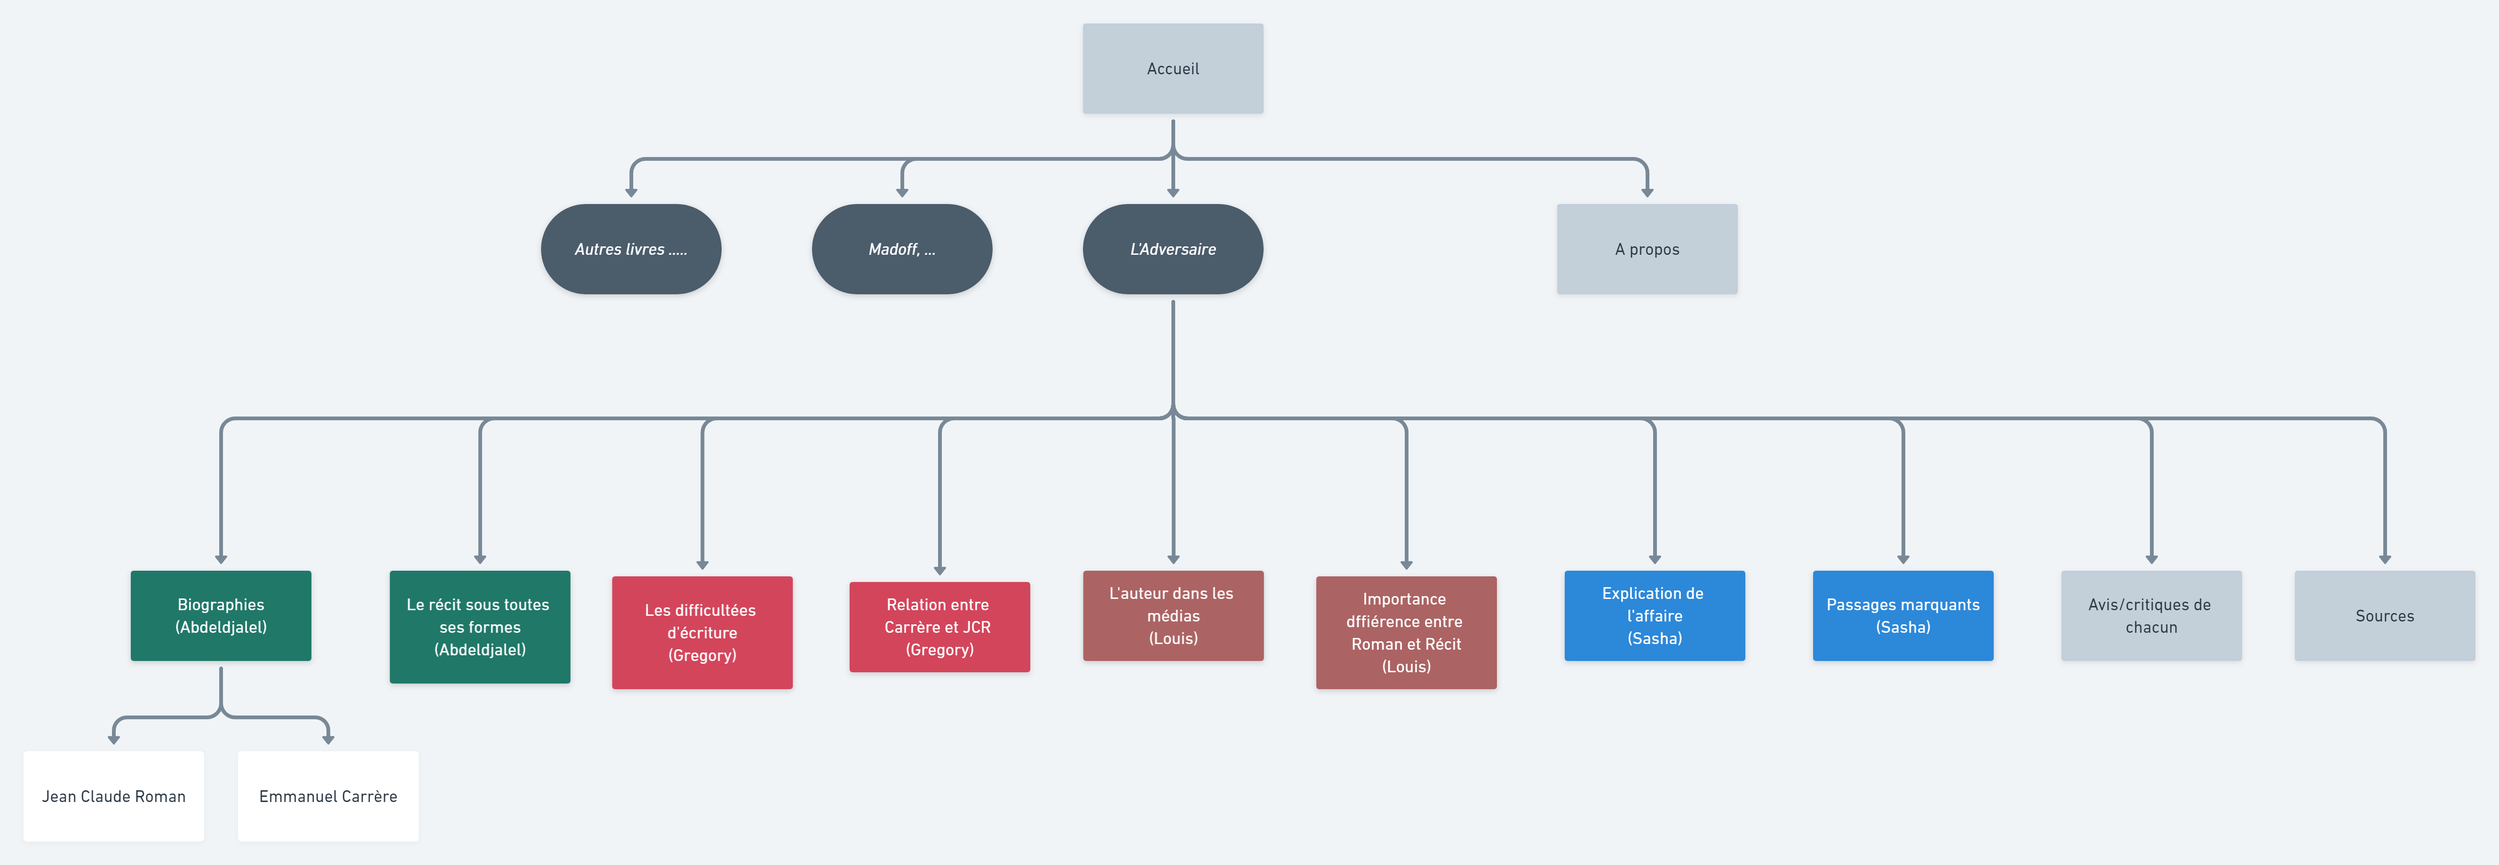
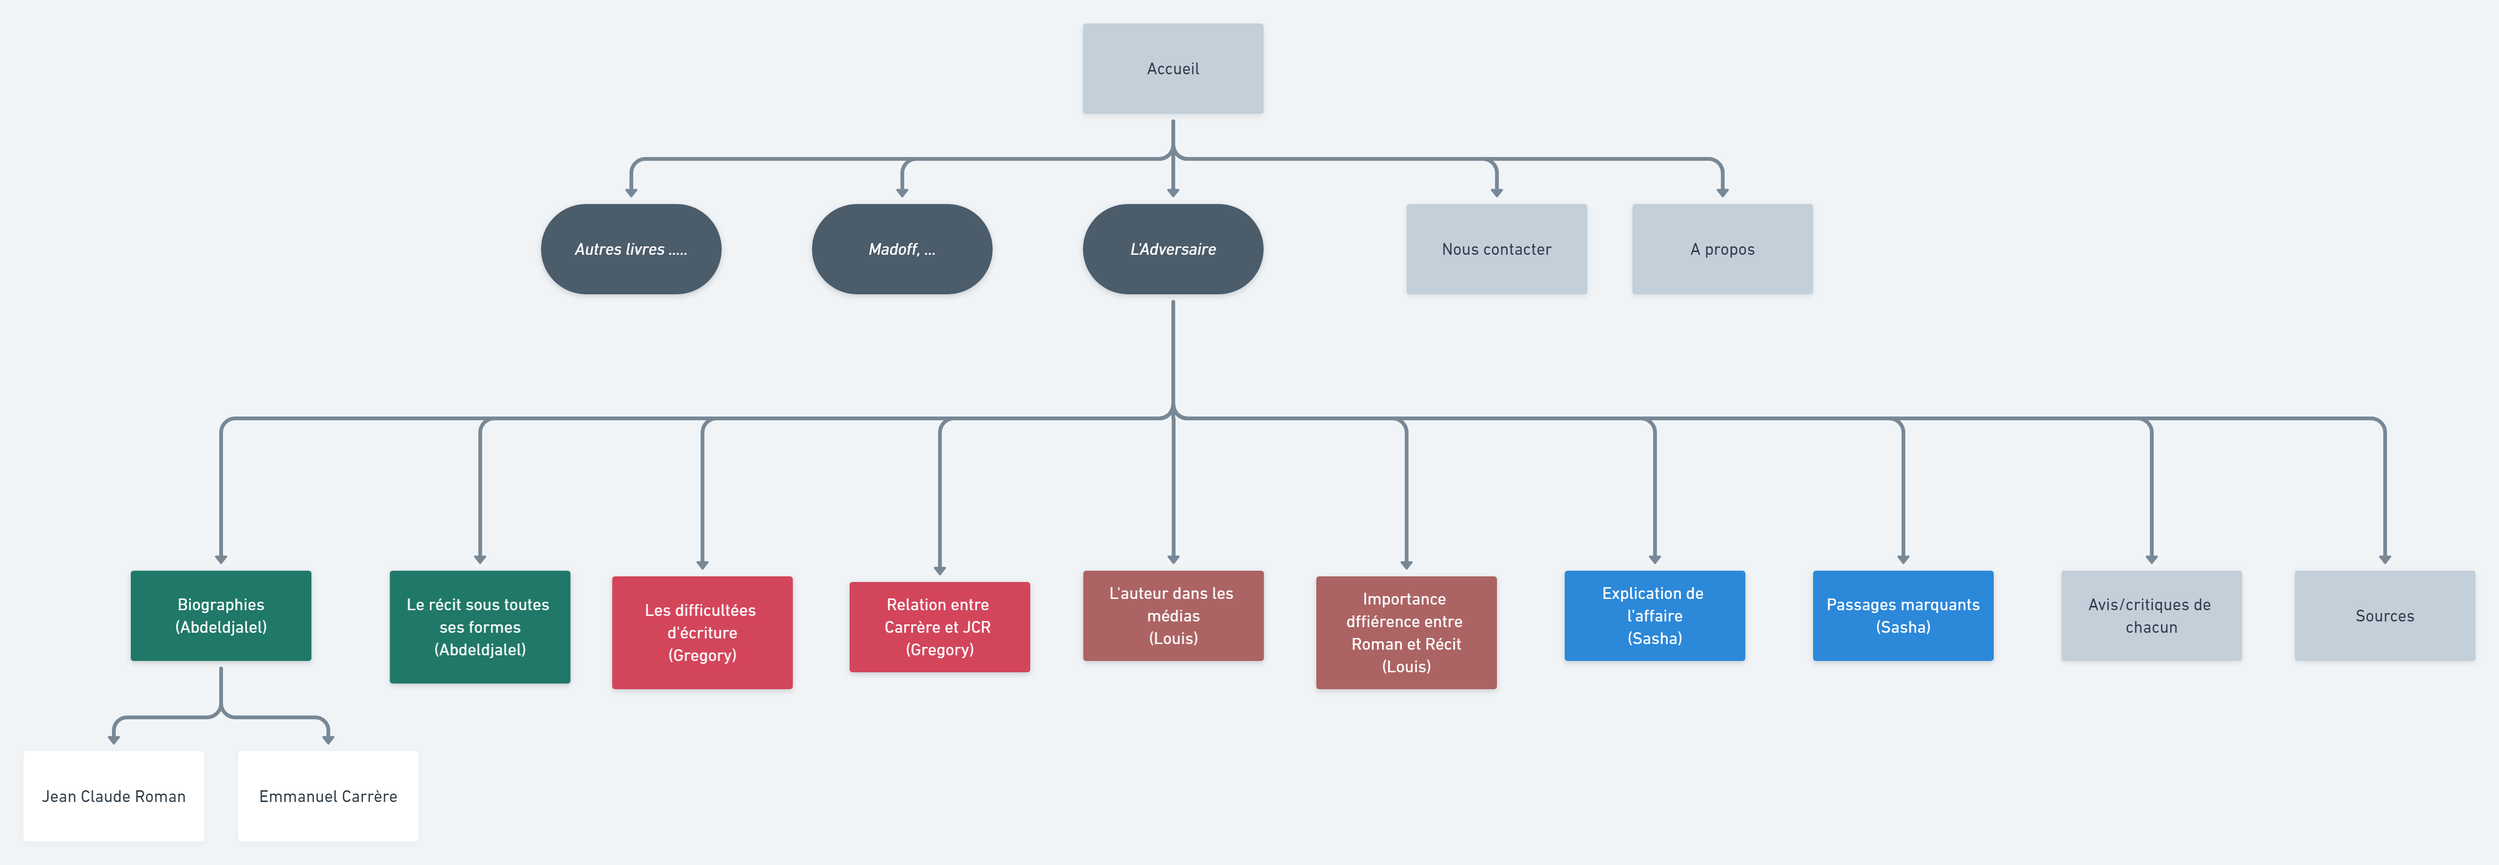
📝 Update : Add contact page

Changed region(s): [[0.5625, 0.2168, 0.75, 0.3408], [0.6562, 0.1549, 0.6875, 0.1859]]

diff --git a/adversaire/sources.html b/adversaire/sources.html
@@ -6,11 +6,11 @@
 -->
 <html>
 	<head>
-		<title>Sources - Unusual stories</title>
+		<title>Sources - Unusual Stories</title>
 		<meta charset="utf-8" />
 		<meta name="viewport" content="width=device-width, initial-scale=1, user-scalable=no" />
-		<link rel="stylesheet" href="assets/css/main.css" />
-		<noscript><link rel="stylesheet" href="assets/css/noscript.css" /></noscript>
+		<link rel="stylesheet" href="../assets/css/main.css" />
+		<noscript><link rel="stylesheet" href="../assets/css/noscript.css" /></noscript>
 	</head>
 	<body class="is-preload">
 
@@ -19,15 +19,17 @@
 
 				<!-- Header -->
 					<header id="header">
-						<a href="index.html" class="logo">Massively</a>
+						<a href="index.html" class="logo">L'adversaire, Emmanuel Carrère</a>
 					</header>
 
 				<!-- Nav -->
 					<nav id="nav">
 						<ul class="links">
-							<li><a href="index.html">Accueil</a></li>
-							<li><a href="about.html">A propos</a></li>
+							<li><a href="../index.html">Accueil</a></li>
+							<li><a href="index.html">L'Adversaire</a></li>
+							<li><a href="../about.html">A propos</a></li>
 							<li class="active"><a href="sources.html">Sources</a></li>
+							<li><a href="../contact.html">Nous contacter</a></li>
 						</ul>
 						<ul class="icons">
 							<li><a href="#" class="icon brands fa-twitter"><span class="label">Twitter</span></a></li>
@@ -48,9 +50,28 @@
 									<p>D'ou tirons nous nos informations ?</p>
 								</header>
 
-								<div class="image main"><img src="images/pic01.jpg" alt="" /></div>
 								<p>Donec eget ex magna. Interdum et malesuada fames ac ante ipsum primis in faucibus. Pellentesque venenatis dolor imperdiet dolor mattis sagittis. Praesent rutrum sem diam, vitae egestas enim auctor sit amet. Pellentesque leo mauris, consectetur id ipsum sit amet, fergiat. Pellentesque in mi eu massa lacinia malesuada et a elit. Donec urna ex, lacinia in purus ac, pretium pulvinar mauris. Nunc lorem mauris, fringilla in aliquam at, euismod in lectus. Pellentesque habitant morbi tristique senectus et netus et malesuada fames ac turpis egestas. Curabitur sapien risus, commodo eget turpis at, elementum convallis enim turpis, lorem ipsum dolor sit amet nullam.</p>
 								<p>Lorem ipsum dolor sit amet, consectetur adipiscing elit. Duis dapibus rutrum facilisis. Class aptent taciti sociosqu ad litora torquent per conubia nostra, per inceptos himenaeos. Etiam tristique libero eu nibh porttitor fermentum. Nullam venenatis erat id vehicula viverra. Nunc ultrices eros ut ultricies condimentum. Mauris risus lacus, blandit sit amet venenatis non, bibendum vitae dolor. Nunc lorem mauris, fringilla in aliquam at, euismod in lectus. Pellentesque habitant morbi tristique senectus et netus et malesuada fames ac turpis egestas. In non lorem sit amet elit placerat maximus. Pellentesque aliquam maximus risus. Donec eget ex magna. Interdum et malesuada fames ac ante ipsum primis in faucibus. Pellentesque venenatis dolor imperdiet dolor mattis sagittis. Praesent rutrum sem diam, vitae egestas enim auctor sit amet. Pellentesque leo mauris, consectetur id ipsum.</p>
+
+								<h2 style="text-align: center;">Articles de journaux</h2>
+
+								<h2 style="text-align:center;">Vidéos et reportages</h2>
+
+								<p>
+									<b>Faites entrer l'accusé - Jean-Claude Romand (1h24)</b>
+									<br>
+									<a href="https://www.youtube.com/watch?v=Ja2-i30fbAI">https://www.youtube.com/watch?v=Ja2-i30fbAI</a>
+								</p>
+
+								<h2 style="text-align: center;">Photos et illustrations</h2>
+								
+								<p>
+									<b>Image d'arrière-plan du site</b>
+									<br>
+									<a href="https://unsplash.com/photos/BI9SwyRrJxo">https://unsplash.com/photos/BI9SwyRrJxo</a>
+								</p>
+
+								
 							</section>
 
 					</div>
@@ -69,7 +90,7 @@
 						<section>
 							<h3>Une faute ? Une remarque à apporter ?</h3>
 							<p>Contactez-nous via notre formulaire, nous prenons en compte tous les avis, remarques et critiques !</p>
-							<a href="#" class="button primary small icon solid fa-paper-plane" title="Accéder au formulaire de messagerie">Nous contacter</a>
+							<a href="../contact.html" class="button primary small icon solid fa-paper-plane" title="Accéder au formulaire de messagerie">Nous contacter</a>
 						</section>
 					</footer>
 
@@ -81,13 +102,13 @@
 			</div>
 
 		<!-- Scripts -->
-			<script src="assets/js/jquery.min.js"></script>
-			<script src="assets/js/jquery.scrollex.min.js"></script>
-			<script src="assets/js/jquery.scrolly.min.js"></script>
-			<script src="assets/js/browser.min.js"></script>
-			<script src="assets/js/breakpoints.min.js"></script>
-			<script src="assets/js/util.js"></script>
-			<script src="assets/js/main.js"></script>
+			<script src="../assets/js/jquery.min.js"></script>
+			<script src="../assets/js/jquery.scrollex.min.js"></script>
+			<script src="../assets/js/jquery.scrolly.min.js"></script>
+			<script src="../assets/js/browser.min.js"></script>
+			<script src="../assets/js/breakpoints.min.js"></script>
+			<script src="../assets/js/util.js"></script>
+			<script src="../assets/js/main.js"></script>
 
 	</body>
 </html>

diff --git a/contact.html b/contact.html
@@ -6,7 +6,7 @@
 -->
 <html>
 	<head>
-		<title>A propos - Unusual Stories</title>
+		<title>Nous contacter - Unusual Stories</title>
 		<meta charset="utf-8" />
 		<meta name="viewport" content="width=device-width, initial-scale=1, user-scalable=no" />
 		<link rel="stylesheet" href="assets/css/main.css" />
@@ -26,8 +26,8 @@
 					<nav id="nav">
 						<ul class="links">
 							<li><a href="index.html">Accueil</a></li>
-							<li class="active"><a href="about.html">A propos</a></li>
-							<li><a href="contact.html">Nous contacter</a></li>
+							<li><a href="about.html">A propos</a></li>
+							<li class="active"><a href="contact.html">Nous contacter</a></li>
 						</ul>
 						<ul class="icons">
 							<li><a href="#" class="icon brands fa-twitter"><span class="label">Twitter</span></a></li>
@@ -43,37 +43,31 @@
 						<!-- Post -->
 							<section class="post">
 								<header class="major">
-									<span class="date">L'équipe</span>
-									<h1>A propos</h1>
-									<p>Qui sommes nous ? Que faisons-nous ? <br /> Nous répondons à vos interrogations !</p>
+									<h1>Nous contacter</h1>
+									<p>Une faute ? Une remarque à apporter ? Envoyez-nous un message !</p>
 								</header>
-								
-								<p>
-									Nous sommes un groupe d'élèves de première année de DUT Informatique à l'Université de Paris. Dans le cadre d'un projet nous devons réaliser un site Internet culturel sur un ouvrage de notre choix. Vous voyez donc actuellement le résultat de notre travail.
-								</p>
 
-								<p>
-									Nous sommes une équipe composée de 4 membres, Contrepois Sasha, Chihab Abdeldjalel, Tacquet Grégory et Malassigné Louis.
-								</p>
-
-								<p>
-									Tout d’abord, nous avons effectué un travail personnel qui se résumait à des recherches et de la lecture de l’oeuvre. Puis, nous avons  mis en commun nos travaux pour critiquer et améliorer le contenu de nos recherches et entammer la rédaction d’articles sur des sujets qui nous semblaient pertinent. Nous avons enfin fini par incorporer notre travail sur le site Internet.
-								</p>
-
-								<p>
-									Ce projet s’est basé sur la communication, l’entraide et le travail d’équipe.
-								</p>
-
-								<p style="text-align: center;">
-									La première publication du site est le 28/12/2020.
-									<br>
-									Hébergé grâce à GitHub Pages
-								</p>
-
-								<h3>Arborescence du site internet</h3>
-								<p>
-									<div class="image fit"><img src="images/arborescence.png"></div>
-								</p>
+								<div class="box">
+									<form method="post" action="#">
+										<div class="fields">
+											<div class="field">
+												<label for="name">Nom</label>
+												<input type="text" name="name" id="name" />
+											</div>
+											<div class="field">
+												<label for="email">Email</label>
+												<input type="email" name="email" id="email" />
+											</div>
+											<div class="field">
+												<label for="message">Message</label>
+												<textarea name="message" id="message" rows="3"></textarea>
+											</div>
+										</div>
+										<ul class="actions">
+											<li><input type="submit" value="Envoyer" /></li>
+										</ul>
+									</form>
+								</div>
 
 							</section>
 

diff --git a/adversaire/explication_affaire.html b/adversaire/explication_affaire.html
@@ -29,7 +29,8 @@
                             <li><a href="index.html">L'Adversaire</a></li>
                             <li class="active"><a href="#"><i>Explication de l'affaire</i></a></li>
 							<li><a href="../about.html">A propos</a></li>
-							<li><a href="../sources.html">Sources</a></li>
+                            <li><a href="../sources.html">Sources</a></li>
+                            <li><a href="../contact.html">Nous contacter</a></li>
 						</ul>
 						<ul class="icons">
 							<li><a href="#" class="icon brands fa-twitter"><span class="label">Twitter</span></a></li>
@@ -176,7 +177,7 @@
                         <section>
                             <h3>Une faute ? Une remarque à apporter ?</h3>
                             <p>Contactez-nous via notre formulaire, nous prenons en compte tous les avis, remarques et critiques !</p>
-                            <a href="#" class="button primary small icon solid fa-paper-plane" title="Accéder au formulaire de messagerie">Nous contacter</a>
+                            <a href="../contact.html" class="button primary small icon solid fa-paper-plane" title="Accéder au formulaire de messagerie">Nous contacter</a>
                         </section>
 					</footer>
 

diff --git a/adversaire/recit_toutes_ses_formes.html b/adversaire/recit_toutes_ses_formes.html
@@ -29,7 +29,8 @@
                             <li><a href="index.html">L'Adversaire</a></li>
 							<li class="active"><a href="#"><i>Récit sous toutes ses formes</i></a></li>
 							<li><a href="../about.html">A propos</a></li>
-							<li><a href="../sources.html">Sources</a></li>
+                            <li><a href="../sources.html">Sources</a></li>
+                            <li><a href="../contact.html">Nous contacter</a></li>
 						</ul>
 						<ul class="icons">
 							<li><a href="#" class="icon brands fa-twitter"><span class="label">Twitter</span></a></li>
@@ -164,7 +165,7 @@
                         <section>
                             <h3>Une faute ? Une remarque à apporter ?</h3>
                             <p>Contactez-nous via notre formulaire, nous prenons en compte tous les avis, remarques et critiques !</p>
-                            <a href="#" class="button primary small icon solid fa-paper-plane" title="Accéder au formulaire de messagerie">Nous contacter</a>
+                            <a href="../contact.html" class="button primary small icon solid fa-paper-plane" title="Accéder au formulaire de messagerie">Nous contacter</a>
                         </section>
 					</footer>
 

diff --git a/index.html b/index.html
@@ -6,7 +6,7 @@
 -->
 <html>
 	<head>
-		<title>Accueil - Unusual stories</title>
+		<title>Accueil - Unusual Stories</title>
 		<meta charset="utf-8" />
 		<meta name="viewport" content="width=device-width, initial-scale=1, user-scalable=no" />
 		<link rel="stylesheet" href="assets/css/main.css" />
@@ -36,7 +36,7 @@
 						<ul class="links">
 							<li class="active"><a href="#">Accueil</a></li>
 							<li><a href="about.html">A propos</a></li>
-							<li><a href="sources.html">Sources</a></li>
+							<li><a href="contact.html">Nous contacter</a></li>
 						</ul>
 						<ul class="icons">
 							<li><a href="#" class="icon brands fa-twitter"><span class="label">Twitter</span></a></li>
@@ -165,7 +165,7 @@
 						<section>
 							<h3>Une faute ? Une remarque à apporter ?</h3>
 							<p>Contactez-nous via notre formulaire, nous prenons en compte tous les avis, remarques et critiques !</p>
-							<a href="#" class="button primary small icon solid fa-paper-plane" title="Accéder au formulaire de messagerie">Nous contacter</a>
+							<a href="contact.html" class="button primary small icon solid fa-paper-plane" title="Accéder au formulaire de messagerie">Nous contacter</a>
 						</section>
 					</footer>
 

diff --git a/adversaire/biographies.html b/adversaire/biographies.html
@@ -29,7 +29,8 @@
                             <li><a href="index.html">L'Adversaire</a></li>
 							<li class="active"><a href="#"><i>Biographies</i></a></li>
 							<li><a href="../about.html">A propos</a></li>
-							<li><a href="../sources.html">Sources</a></li>
+                            <li><a href="../sources.html">Sources</a></li>
+							<li><a href="../contact.html">Nous contacter</a></li>
 						</ul>
 						<ul class="icons">
 							<li><a href="#" class="icon brands fa-twitter"><span class="label">Twitter</span></a></li>
@@ -128,7 +129,7 @@
                         <section>
                             <h3>Une faute ? Une remarque à apporter ?</h3>
                             <p>Contactez-nous via notre formulaire, nous prenons en compte tous les avis, remarques et critiques !</p>
-                            <a href="#" class="button primary small icon solid fa-paper-plane" title="Accéder au formulaire de messagerie">Nous contacter</a>
+                            <a href="../contact.html" class="button primary small icon solid fa-paper-plane" title="Accéder au formulaire de messagerie">Nous contacter</a>
                         </section>
 					</footer>
 

diff --git a/adversaire/role_auteur_trouver_verite.html b/adversaire/role_auteur_trouver_verite.html
@@ -29,7 +29,8 @@
                             <li><a href="index.html">L'Adversaire</a></li>
 							<li class="active"><a href="#"><i>Le rôle de l'auteur pour la vérité</i></a></li>
 							<li><a href="../about.html">A propos</a></li>
-							<li><a href="../sources.html">Sources</a></li>
+							<li><a href="sources.html">Sources</a></li>
+							<li><a href="../contact.html">Nous contacter</a></li>
 						</ul>
 						<ul class="icons">
 							<li><a href="#" class="icon brands fa-twitter"><span class="label">Twitter</span></a></li>
@@ -91,7 +92,7 @@
                         <section>
                             <h3>Une faute ? Une remarque à apporter ?</h3>
                             <p>Contactez-nous via notre formulaire, nous prenons en compte tous les avis, remarques et critiques !</p>
-                            <a href="#" class="button primary small icon solid fa-paper-plane" title="Accéder au formulaire de messagerie">Nous contacter</a>
+                            <a href="../contact.html" class="button primary small icon solid fa-paper-plane" title="Accéder au formulaire de messagerie">Nous contacter</a>
                         </section>
 					</footer>
 

diff --git a/adversaire/passages_marquants.html b/adversaire/passages_marquants.html
@@ -29,7 +29,8 @@
 							<li><a href="index.html">L'Adversaire</a></li>
 							<li class="active"><a href="#"><i>Explication de l'affaire</i></a></li>
 							<li><a href="../about.html">A propos</a></li>
-							<li><a href="../sources.html">Sources</a></li>
+							<li><a href="sources.html">Sources</a></li>
+							<li><a href="../contact.html">Nous contacter</a></li>
 						</ul>
 						<ul class="icons">
 							<li><a href="#" class="icon brands fa-twitter"><span class="label">Twitter</span></a></li>
@@ -116,7 +117,7 @@
                         <section>
                             <h3>Une faute ? Une remarque à apporter ?</h3>
                             <p>Contactez-nous via notre formulaire, nous prenons en compte tous les avis, remarques et critiques !</p>
-                            <a href="#" class="button primary small icon solid fa-paper-plane" title="Accéder au formulaire de messagerie">Nous contacter</a>
+                            <a href="../contact.html" class="button primary small icon solid fa-paper-plane" title="Accéder au formulaire de messagerie">Nous contacter</a>
                         </section>
 					</footer>
 

diff --git a/adversaire/relation_auteur_criminel.html b/adversaire/relation_auteur_criminel.html
@@ -30,6 +30,7 @@
 							<li class="active"><a href="#"><i>Relation auteur-criminel dangereuse ?</i></a></li>
 							<li><a href="../about.html">A propos</a></li>
 							<li><a href="../sources.html">Sources</a></li>
+							<li><a href="../contact.html">Nous contacter</a></li>
 						</ul>
 						<ul class="icons">
 							<li><a href="#" class="icon brands fa-twitter"><span class="label">Twitter</span></a></li>
@@ -82,7 +83,7 @@
                         <section>
                             <h3>Une faute ? Une remarque à apporter ?</h3>
                             <p>Contactez-nous via notre formulaire, nous prenons en compte tous les avis, remarques et critiques !</p>
-                            <a href="#" class="button primary small icon solid fa-paper-plane" title="Accéder au formulaire de messagerie">Nous contacter</a>
+                            <a href="../contact.html" class="button primary small icon solid fa-paper-plane" title="Accéder au formulaire de messagerie">Nous contacter</a>
                         </section>
 					</footer>
 

diff --git a/adversaire/auteur_dans_les_medias.html b/adversaire/auteur_dans_les_medias.html
@@ -30,6 +30,7 @@
 							<li class="active"><a href="#"><i>L'auteur dans les médias</i></a></li>
 							<li><a href="../about.html">A propos</a></li>
 							<li><a href="../sources.html">Sources</a></li>
+							<li><a href="../contact.html">Nous contacter</a></li>
 						</ul>
 						<ul class="icons">
 							<li><a href="#" class="icon brands fa-twitter"><span class="label">Twitter</span></a></li>
@@ -94,7 +95,7 @@
                         <section>
                             <h3>Une faute ? Une remarque à apporter ?</h3>
                             <p>Contactez-nous via notre formulaire, nous prenons en compte tous les avis, remarques et critiques !</p>
-                            <a href="#" class="button primary small icon solid fa-paper-plane" title="Accéder au formulaire de messagerie">Nous contacter</a>
+                            <a href="../contact.html" class="button primary small icon solid fa-paper-plane" title="Accéder au formulaire de messagerie">Nous contacter</a>
                         </section>
 					</footer>
 

diff --git a/adversaire/diff_roman_recit.html b/adversaire/diff_roman_recit.html
@@ -30,6 +30,7 @@
 							<li class="active"><a href="#"><i>Différence roman/récit</i></a></li>
 							<li><a href="../about.html">A propos</a></li>
 							<li><a href="../sources.html">Sources</a></li>
+							<li><a href="../contact.html">Nous contacter</a></li>
 						</ul>
 						<ul class="icons">
 							<li><a href="#" class="icon brands fa-twitter"><span class="label">Twitter</span></a></li>
@@ -98,7 +99,7 @@
                         <section>
                             <h3>Une faute ? Une remarque à apporter ?</h3>
                             <p>Contactez-nous via notre formulaire, nous prenons en compte tous les avis, remarques et critiques !</p>
-                            <a href="#" class="button primary small icon solid fa-paper-plane" title="Accéder au formulaire de messagerie">Nous contacter</a>
+                            <a href="../contact.html" class="button primary small icon solid fa-paper-plane" title="Accéder au formulaire de messagerie">Nous contacter</a>
                         </section>
 					</footer>
 

diff --git a/adversaire/index.html b/adversaire/index.html
@@ -28,7 +28,8 @@
 							<li><a href="../">Accueil</a></li>
 							<li class="active"><a href="#">L'Adversaire</a></li>
 							<li><a href="../about.html">A propos</a></li>
-							<li><a href="../sources.html">Sources</a></li>
+							<li><a href="sources.html">Sources</a></li>
+							<li><a href="../contact.html">Nous contacter</a></li>
 						</ul>
 						<ul class="icons">
 							<li><a href="#" class="icon brands fa-twitter"><span class="label">Twitter</span></a></li>
@@ -195,7 +196,7 @@
 						<section>
 							<h3>Une faute ? Une remarque à apporter ?</h3>
 							<p>Contactez-nous via notre formulaire, nous prenons en compte tous les avis, remarques et critiques !</p>
-							<a href="#" class="button primary small icon solid fa-paper-plane" title="Accéder au formulaire de messagerie">Nous contacter</a>
+							<a href="../contact.html" class="button primary small icon solid fa-paper-plane" title="Accéder au formulaire de messagerie">Nous contacter</a>
 						</section>
 					</footer>
 
